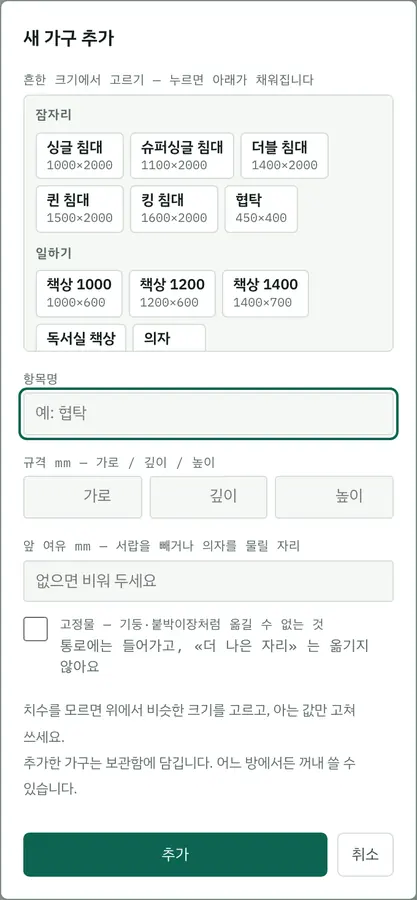
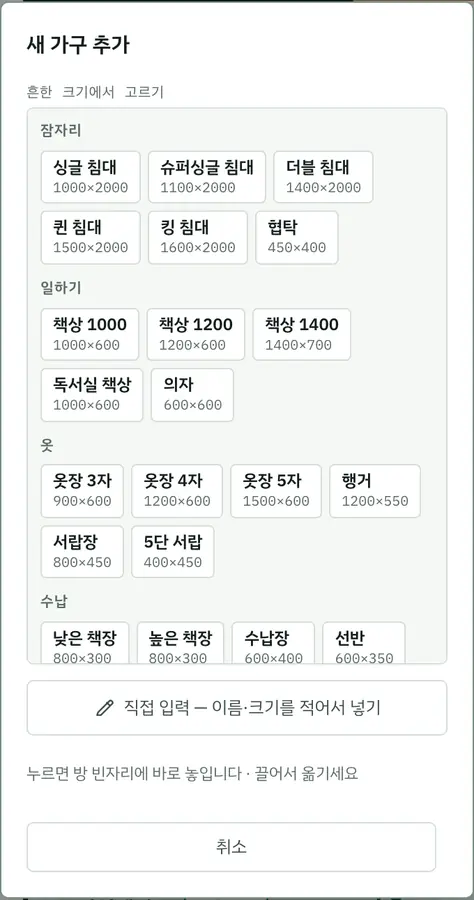
p65: 가구 «흔한 크기» 한 번 누르면 바로 방 빈자리에 · 이름·크기 칸은 «직접 입력» 을 눌러야 펼침 · 폰 고른 가구 줄 맨 앞에 [회전]
- addFurniture() 로 «추가» 와 칩이 같이 쓴다(놓는 자리·방보다 큰 가구 처리·토스트 그대로)
- 안내 «누르면 방 빈자리에 바로 놓입니다 · 끌어서 옮기세요»(집 화면이면 보관함 안내)
- 칩만 보일 때 목록 높이 400px/48vh
- 사용법 3장 그림·설명 새로
- 시험: 칩 뒤 #afAdd 누르기 삭제(점수·통로 기대값 그대로) · 단추 4→5 · t23 은 «직접 입력» 펼친 창

diff --git a/index.html b/index.html
@@ -619,6 +619,8 @@ body.hret .bar,body.hret .side,body.hret .tabbar{opacity:0}
 .selacts{display:flex;gap:6px;margin-top:9px}
 .selacts+.selacts{margin-top:6px}
 .afmore{display:grid;grid-template-columns:1fr 1fr 1fr;gap:6px}
+.afcustom{display:flex;flex-direction:column;gap:11px}   /* p65 — «직접 입력» 을 눌러야 펼쳐지는 칸들 */
+.afown{justify-content:center;min-height:40px}
 .afchk{display:flex;gap:10px;align-items:flex-start;font-size:13px;color:var(--ink-2);line-height:1.45;cursor:pointer}
 .afchk input{width:20px;height:20px;margin:1px 0 0;flex:0 0 auto;accent-color:var(--accent)}
 .afchk i{font-style:normal;color:var(--muted);font-size:12px}
@@ -852,6 +854,7 @@ ol.todo li:first-child{color:var(--ink-2);font-weight:500}
 /* 흔한 크기 고르기 — 치수를 모르는 사람이 대부분이다. 이름과 크기를 함께 보여야 고를 수 있다 */
 .pregrid{max-height:min(210px,30vh);overflow:auto;border:1px solid var(--line);border-radius:5px;
   padding:8px 9px;background:var(--sunk)}
+#addModal.chips .pregrid{max-height:min(400px,48vh)}   /* p65 — 칩만 보일 때는 목록이 창의 주인공 */
 .pregrp{margin:9px 0 5px;font-size:10.5px;font-weight:600;letter-spacing:.06em;color:var(--muted)}
 .pregrp:first-child{margin-top:0}
 .prerow{display:flex;flex-wrap:wrap;gap:5px}
@@ -1361,8 +1364,11 @@ ol.todo li:first-child{color:var(--ink-2);font-weight:500}
 <div class="modal" id="addModal">
   <div class="sheetbox" role="dialog" aria-modal="true" aria-labelledby="afTitle">
     <h2 id="afTitle">새 가구 추가</h2>
-    <div><label>흔한 크기에서 고르기 — 누르면 아래가 채워집니다</label>
+    <div><label>흔한 크기에서 고르기</label>
       <div class="pregrid" id="afPre"></div></div>
+    <!-- p65 — 칩을 누르면 바로 방에 놓인다. 이름·크기를 직접 적는 칸은 «직접 입력» 을 눌러야 펼쳐진다 -->
+    <button type="button" class="btn afown" id="afOwn"><svg class="i" viewBox="0 0 24 24"><use href="#ic-edit"/></svg><span>직접 입력 — 이름·크기를 적어서 넣기</span></button>
+    <div class="afcustom" id="afCustom">
     <div><label for="afName">항목명</label>
       <input id="afName" type="text" placeholder="예: 협탁" maxlength="20"></div>
     <div><label>규격 mm — 가로 / 깊이 / 높이</label>
@@ -1374,12 +1380,13 @@ ol.todo li:first-child{color:var(--ink-2);font-weight:500}
     <div><label for="afF">앞 여유 mm — 서랍을 빼거나 의자를 물릴 자리</label>
       <input id="afF" type="number" min="0" max="2000" step="10" placeholder="없으면 비워 두세요"></div>
     <label class="afchk"><input type="checkbox" id="afFix"><span>고정물 — 기둥·붙박이장처럼 옮길 수 없는 것<br><i>통로에는 들어가고, «더 나은 자리» 는 옮기지 않아요</i></span></label>
+    </div>
     <div class="afmore" id="afMore" hidden>
       <button type="button" class="btn" id="afRot"><svg class="i" viewBox="0 0 24 24"><use href="#ic-rotate"/></svg><span>90° 회전</span></button>
       <button type="button" class="btn" id="afStore"><svg class="i" viewBox="0 0 24 24"><use href="#ic-box"/></svg><span>보관함에</span></button>
       <button type="button" class="btn quiet danger" id="afDel"><svg class="i" viewBox="0 0 24 24"><use href="#ic-trash"/></svg><span>삭제</span></button>
     </div>
-    <p class="hint" id="afHint">치수를 모르면 위에서 비슷한 크기를 고르고, 아는 값만 고쳐 쓰세요.<br>추가한 가구는 보관함에 담깁니다. 어느 방에서든 꺼내 쓸 수 있습니다.</p>
+    <p class="hint" id="afHint">누르면 방 빈자리에 바로 놓입니다 · 끌어서 옮기세요</p>
     <div class="acts">
       <button class="btn go" id="afAdd">추가</button>
       <button class="btn" id="afCancel">취소</button>
@@ -1405,6 +1412,8 @@ ol.todo li:first-child{color:var(--ink-2);font-weight:500}
     <span class="sb-nm" id="sbNm"></span>
     <span class="sb-sz" id="sbSz"></span>
   </button>
+  <!-- p65 — 회전도 줄에 되살림(두 번 누르기를 모르는 사람이 많다) -->
+  <button type="button" class="sb-act" data-sb="rot" aria-label="90° 회전"><svg class="i" viewBox="0 0 24 24"><use href="#ic-rotate"/></svg><span>회전</span></button>
   <button type="button" class="sb-act" data-sb="edit" aria-label="이름·치수 수정"><svg class="i" viewBox="0 0 24 24"><use href="#ic-edit"/></svg><span>수정</span></button>
   <button type="button" class="sb-act" data-sb="dup" aria-label="복제"><svg class="i" viewBox="0 0 24 24"><use href="#ic-copy"/></svg><span>복제</span></button>
   <!-- p46 — 사용자 요청: 고른 가구 줄에서 바로 보관·삭제(p37 에 수정 창 안으로 옮겼던 것을 되살림) -->
@@ -1806,7 +1815,7 @@ const ROOM_PRESETS = [
 ];
 
 /* 화면에 찍히는 판 번호. 실기에서 «고쳤는데 그대로다» 를 가르는 유일한 단서다. */
-const BUILD = "2026-10-04 · p64";
+const BUILD = "2026-10-04 · p65";
 
 const KEYOPT = "room-planner/opt";
 let opt = { score:true, walk:true, unit:"mm", guide:0 };
@@ -6055,6 +6064,9 @@ function buildPresets(){
       b.type = "button"; b.className = "prechip";
       b.innerHTML = `<b>${escapeHtml(p.n)}</b><i>${p.w}×${p.d}</i>`;
       b.addEventListener("click", () => {
+        /* p65 — 새로 넣을 때는 칩 하나로 끝. 칸을 채우는 건 수정 창에서만 */
+        if (!addModal.dataset.edit) return addFurniture({ name:p.n, w:p.w, d:p.d, h:p.h, front:p.f || 0,
+                                                           cat:CAT_COLOR[p.c] ? p.c : "custom", fixed:!!p.fixed });
         $("afName").value = p.n; $("afW").value = p.w;
         $("afD").value = p.d;   $("afH").value = p.h;
         $("afF").value = p.f || "";
@@ -6068,7 +6080,11 @@ function buildPresets(){
   }
 }
 /* p36 — 같은 창을 «가구 수정» 으로도 쓴다. addModal.dataset.edit = 고치는 가구의 uid */
-const AF_HINT = $("afHint").innerHTML;
+/* p65 — 방을 열어 둔 채면 칩 = 방 빈자리, 집 화면이면 보관함 */
+function afHint(){ return (mode === "room" && R()) ? "누르면 방 빈자리에 바로 놓입니다 · 끌어서 옮기세요"
+                                                 : "누르면 보관함에 담깁니다 · 방을 열고 꺼내 쓰세요"; }
+function setOwn(on){ addModal.classList.toggle("chips", !on); $("afCustom").hidden = !on; $("afOwn").hidden = on; $("afAdd").hidden = !on; }
+$("afOwn").addEventListener("click", () => { setOwn(true); setTimeout(() => $("afName").focus(), 30); });
 function setAddMode(uid){
   const edit = !!uid;
   if (edit) addModal.dataset.edit = uid; else delete addModal.dataset.edit;
@@ -6077,7 +6093,8 @@ function setAddMode(uid){
   $("afMore").hidden = !edit;
   $("afPre").parentElement.hidden = edit;       /* 고칠 때는 이름·치수가 먼저 보여야 한다 */
   if (!edit){ $("afFix").checked = false; afPick = null; }
-  $("afHint").innerHTML = edit ? "이 가구만 바뀝니다. 같은 규격을 쓰는 다른 가구는 그대로 둡니다.<br>자리는 왼쪽 위 모서리를 기준으로 유지됩니다." : AF_HINT;
+  $("afHint").innerHTML = edit ? "이 가구만 바뀝니다. 같은 규격을 쓰는 다른 가구는 그대로 둡니다.<br>자리는 왼쪽 위 모서리를 기준으로 유지됩니다." : afHint();
+  setOwn(edit);
   for (const q of $("afPre").querySelectorAll(".prechip")) q.classList.remove("on");
 }
 function openEditItem(uid){
@@ -6143,9 +6160,10 @@ $("addBtn").addEventListener("click", () => {
   if (!addModal.dataset.edit){ $("afFix").checked = false; afPick = null; }
   if (addModal.dataset.edit){ setAddMode(null); for (const f of ["afName","afW","afD","afH","afF"]) $(f).value = ""; }
   for (const q of $("afPre").querySelectorAll(".prechip")) q.classList.remove("on");
+  setOwn(false); $("afHint").innerHTML = afHint();      /* p65 — 열 때마다 칩만 보이게 */
   addModal.classList.add("open");
-  /* p34 — 폰에서는 창이 열리자마자 키보드가 올라와 «흔한 크기» 를 가렸다. 폰은 자동 커서를 두지 않는다 */
-  if (!isPhone()) setTimeout(() => $("afName").focus(), 30);
+  /* p34 — 폰에서는 창이 열리자마자 키보드가 올라와 «흔한 크기» 를 가렸다. 폰은 자동 커서를 두지 않는다.
+     p65 — 이름 칸이 접혀 있으니 자동 커서는 이제 어디에도 두지 않는다 */
 });
 $("afCancel").addEventListener("click", () => { addModal.classList.remove("open"); if (addModal.dataset.edit){ setAddMode(null); for (const f of ["afName","afW","afD","afH","afF"]) $(f).value = ""; } });
 addModal.addEventListener("click", e => { if (e.target === addModal) addModal.classList.remove("open"); });
@@ -6156,12 +6174,16 @@ $("afAdd").addEventListener("click", () => {
   if (![w,d,h].every(v => Number.isFinite(v) && v >= 50 && v <= 4000))
     return toast("가로·깊이·높이를 50~4000 사이로 적어 주세요");
   if (addModal.dataset.edit) return saveEditItem(addModal.dataset.edit, name, w, d, h);
+  addFurniture({ name, w, d, h, front:$("afF").value || 0,
+                 cat: afPick && afPick.n === name && CAT_COLOR[afPick.c] ? afPick.c : "custom",
+                 fixed:$("afFix").checked });
+});
+/* p65 — «추가» 와 «흔한 크기» 칩이 같이 쓴다 */
+function addFurniture({ name, w, d, h, front, cat, fixed }){
   let n = 1; while (state.catalog.some(c => c.id === "U"+n)) n++;
   const cid = "U"+n, before = snapshot();
   state.catalog.push({ id:cid, name, w:Math.round(w), d:Math.round(d), h:Math.round(h),
-                       front:clampInt($("afF").value || 0, 0, 2000),
-                       cat: afPick && afPick.n === name && CAT_COLOR[afPick.c] ? afPick.c : "custom",
-                       custom:true, fixed:$("afFix").checked });
+                       front:clampInt(front || 0, 0, 2000), cat, custom:true, fixed:!!fixed });
   /* 방을 열어 둔 채 추가했으면 그 방에 바로 놓는다.
      보관함에 넣고 «다시 꺼내세요» 라고 하면 60초 규칙이 그 자리에서 깨진다. */
   let into = (mode === "room" && R()) ? curRoom : null;
@@ -6187,7 +6209,7 @@ $("afAdd").addEventListener("click", () => {
   toast(into ? `${name}${eul(name)} 방에 놓았습니다${fitNote || " — 끌어서 자리를 잡으세요"}`
        : fitNote ? `${name} — ${fitNote} 보관함에 넣었습니다`
              : `${name} 추가 — 상단 보관함에 있습니다`);
-});
+}
 
 /* ============ 확인 창 ============ */
 let confirmCb = null;
@@ -6776,7 +6798,8 @@ $("selbar").addEventListener("click", e => {
   if (!b || !sel) return;
   const a = b.getAttribute("data-sb");
   if (!a){ openSheet("stat"); return; }
-  if (a === "edit")      openEditItem(sel);
+  if (a === "rot")       rotate(sel);                                   /* p65 */
+  else if (a === "edit") openEditItem(sel);
   else if (a === "dup")  duplicateItem(sel);
   else if (a === "spot") phoneSpot(sel);
   else if (a === "store"){ const it = ITEM(sel); if (it && it.room === null) takeItem(sel); else storeItem(sel); }   /* p46 */
@@ -6803,7 +6826,7 @@ function syncPhone(){
     $("sbSz").textContent = it.room === null
       ? `보관함 · ${fmt(sp.w)} × ${fmt(sp.d)}`
       : `${fmt(f.w)} × ${fmt(f.d)} · ${it.rot}°`;
-    $("selbar").querySelector('[data-sb="dup"]').hidden = it.room === null;      /* p47 — «자리 찾기» 는 뺐다(사용자 요청) */
+    $("selbar").querySelector('[data-sb="dup"]').hidden = $("selbar").querySelector('[data-sb="rot"]').hidden = it.room === null;      /* p47 — «자리 찾기» 는 뺐다(사용자 요청) */
     $("sbStoreL").textContent = it.room === null ? "꺼내기" : "보관";          /* p46 — 보관함 가구는 «꺼내기» */
   }
   /* p51 — 고른 문·창문·콘센트 줄(#opbar)과 «벽을 누르세요» 띠 */
@@ -7287,8 +7310,8 @@ const GUIDE = [
    d:"«추가» 에서 문이나 창문을 고르면 반투명한 미리보기가 나옵니다. 끌거나 벽을 눌러 자리를 맞추고, 양 끝 점을 끌어 폭을 바꾼 뒤 «놓기». 문은 «안으로/밖으로»·«반대쪽» 으로 여는 쪽을 고르고, 창문은 «보통 창» 과 바닥까지 내려오는 «거실 창» 중에서 고르세요. 콘센트는 벽을 누르면 바로 놓이고, 앞을 가구가 막으면 황토색으로 알려 줍니다(점수와는 상관없음). 세밀한 치수는 «수정».",
    img:"guide/02.webp", w:1040, h:821 },
  { t:"가구 놓기",
-   d:"치수를 모르면 «흔한 크기» 에서 고르고 아는 값만 고쳐 쓰세요. 앞 여유는 서랍을 빼거나 의자를 물릴 자리입니다. 기둥·붙박이장·라디에이터처럼 옮길 수 없는 것은 맨 아래 «고정물» 에서 고르세요 — 통로에는 들어가고 추천은 옮기지 않습니다.",
-   img:"guide/03.webp", w:417, h:900 },
+   d:"«흔한 크기» 를 누르면 방 빈자리에 바로 놓입니다 — 끌어서 옮기세요. 크기를 아는 가구는 «직접 입력» 에서 이름·크기·앞 여유(서랍을 빼거나 의자를 물릴 자리)를 적습니다. 기둥·붙박이장·라디에이터처럼 옮길 수 없는 것은 맨 아래 «고정물» 에서 고르세요 — 통로에는 들어가고 추천은 옮기지 않습니다.",
+   img:"guide/03.webp", w:474, h:900 },
  { t:"끌어서 옮기기",
    d:"끌면 벽과 이웃 가구에 저절로 붙습니다. 고른 가구는 가장 가까운 벽이나 가구까지의 거리가 도면에, 네 벽까지의 거리는 오른쪽에 나오고, 겹치면 빨갛게 표시됩니다. 같은 칸의 «치수 수정»·«복제» 로 크기를 고치거나 하나 더 놓을 수 있습니다.",
    img:"guide/04.webp", w:1040, h:821 },

diff --git a/tests/t38.js b/tests/t38.js
@@ -18,8 +18,7 @@ const APP = 'file://' + (process.env.APP || (process.env.WORK || '/home/claude/w
       const cid = s.catalog.find(k => k.name === nm).id; Object.assign(s.items.find(i => i.cat === cid), v);
       localStorage.setItem('room-planner/3', JSON.stringify(s)); }, [nm, v]); await reload(); };
   const addPreset = async nm => { await p.click('#addBtn'); await p.waitForTimeout(300);
-    await p.click(`#afPre button:has-text("${nm}")`); await p.waitForTimeout(100);
-    const fx = await p.isChecked('#afFix'); await p.click('#afAdd'); await p.waitForTimeout(600); return fx; };
+    await p.click(`#afPre button:has-text("${nm}")`); await p.waitForTimeout(600); return true; };   // p65 — 칩 하나로 방에
   await p.goto(APP); await p.waitForTimeout(700); await p.click('#isPeek'); await p.waitForTimeout(1500);
   if (await p.$('#guide.open')) { await p.keyboard.press('Escape'); await p.waitForTimeout(300); }
   const w0 = await walk(), sc0 = await score();
@@ -27,11 +26,11 @@ const APP = 'file://' + (process.env.APP || (process.env.WORK || '/home/claude/w
   chk(await p.$$eval('#afPre .pregrp', e => e.some(x => x.textContent.includes('고정물'))), '«흔한 크기» 에 고정물 묶음');
   const fx = await addPreset('기둥');
   let s = await st(); const col = s.catalog.find(k => k.name === '기둥');
-  chk(fx && col && col.fixed === true, '기둥 누르면 «고정물» 체크 → 카탈로그 fixed');
+  chk(fx && col && col.fixed === true, '기둥 누르면 바로 놓이고 카탈로그 fixed');
   chk((await p.$$('#plan .fg.fixed rect.hatch')).length === 1, '도면에 빗금 고정물 1개');
   // 싱글 침대(일반 가구)는 고정물 아님
-  await p.click('#addBtn'); await p.waitForTimeout(200); await p.click('#afPre button:has-text("협탁")');
-  chk(!(await p.isChecked('#afFix')), '일반 가구 누르면 체크 해제'); await p.click('#afCancel');
+  await p.click('#addBtn'); await p.waitForTimeout(200); await p.click('#afOwn');
+  chk(!(await p.isChecked('#afFix')), '«직접 입력» 칸은 고정물 체크 해제'); await p.click('#afCancel');
   // 기둥을 통로 한가운데로
   await put('기둥', { x:1500, y:2350, rot:0 });
   const w1 = await walk(); chk(w1 < 771, `통로 한가운데 기둥 → 최소 통로 771 → ${w1}`);
@@ -72,9 +71,9 @@ const APP = 'file://' + (process.env.APP || (process.env.WORK || '/home/claude/w
   await p.goto(APP); await p.waitForTimeout(700); await p.tap('#isPeek'); await p.waitForTimeout(1500);
   if (await p.$('#guide.open')) { await p.keyboard.press('Escape'); await p.waitForTimeout(300); }
   await p.tap('#tabbar [data-tab="add"]'); await p.waitForTimeout(300); await p.tap('#apModal [data-ap="furn"]'); await p.waitForTimeout(400);
-  await p.locator('#afPre button:has-text("기둥")').scrollIntoViewIfNeeded(); await p.tap('#afPre button:has-text("기둥")'); await p.tap('#afAdd'); await p.waitForTimeout(700);
+  await p.locator('#afPre button:has-text("기둥")').scrollIntoViewIfNeeded(); await p.tap('#afPre button:has-text("기둥")'); await p.waitForTimeout(700);
   const vis = await p.$$eval('#selbar .sb-act', ns => ns.filter(n => !n.hidden).map(n => n.textContent.trim()));
-  chk(vis.join() === '수정,복제,보관,삭제', '폰 고정물 고르면 줄: ' + vis.join(' · '));   // p47 — 자리 찾기는 이제 모두에게 없음   // p46 — 보관·삭제 되살림(자리 찾기는 고정물이라 숨김)
+  chk(vis.join() === '회전,수정,복제,보관,삭제', '폰 고정물 고르면 줄: ' + vis.join(' · '));   // p47 — 자리 찾기는 이제 모두에게 없음   // p46 — 보관·삭제 되살림(자리 찾기는 고정물이라 숨김)
   await p.tap('#sbInfo'); await p.waitForTimeout(400);
   chk(!(await p.isVisible('#selEdit')) && !(await p.isVisible('#selRot')), '폰 상태 시트: 고른 가구 칸 버튼 없음');
   await p.screenshot({ path:(process.env.WORK || '/home/claude/work') + '/p38_phone.png' });

diff --git a/tests/t46.js b/tests/t46.js
@@ -23,7 +23,7 @@ const FILE = process.env.APP || WORK + '/app.html', DIR = path.dirname(FILE);
       const info = document.getElementById('sbInfo').getBoundingClientRect();
       return { labels: acts.map(n => n.textContent.trim()), small: acts.filter(n => { const r = n.getBoundingClientRect(); return r.width < 44 || r.height < 44; }).length,
         over: s.scrollWidth > s.clientWidth + 1, right: Math.max(...acts.map(n => n.getBoundingClientRect().right)) <= innerWidth, info: Math.round(info.width), nm: document.getElementById('sbNm').textContent }; });
-    chk(bar.labels.join('·') === '수정·복제·보관·삭제' && bar.small === 0 && !bar.over && bar.right,
+    chk(bar.labels.join('·') === '회전·수정·복제·보관·삭제' && bar.small === 0 && !bar.over && bar.right,
         `${W}px: 고른 가구 줄 [${bar.labels.join(' · ')}] 44px 이상 · 화면 안 · 이름 칸 ${bar.info}px («${bar.nm}»)`);
     if (W === 360) { chk(bar.info >= 60, `360px 에서도 이름 칸 60px 이상 (${bar.info}px)`); await c.close(); continue; }
     await p.screenshot({ path: WORK + '/p46_selbar.png' });
@@ -65,7 +65,7 @@ const FILE = process.env.APP || WORK + '/app.html', DIR = path.dirname(FILE);
   const got = await run('/gc.html?gctest', async p => {
     await p.click('#isPeek'); await p.waitForTimeout(1300);
     if (await p.$('#guide.open')) { await p.waitForTimeout(100); chk(await p.$eval('.gnote', n => n.textContent.includes('쿠키를 쓰지 않고')), '사용법 창에 측정 안내 한 줄'); await p.keyboard.press('Escape'); }
-    await p.click('#addBtn'); await p.waitForTimeout(300);
+    await p.click('#addBtn'); await p.waitForTimeout(300); await p.click('#afOwn');   // p65
     await p.fill('#afName', '비밀 책상'); await p.fill('#afW', '1000'); await p.fill('#afD', '600'); await p.fill('#afH', '720');
     await p.click('#afAdd'); await p.waitForTimeout(300);
     await p.click('#shareBtn'); await p.waitForTimeout(500); await p.click('#shClose').catch(() => {});

diff --git a/tests/t37.js b/tests/t37.js
@@ -71,7 +71,7 @@ const APP = 'file://' + (process.env.APP || (process.env.WORK || '/home/claude/w
   await p.tap('#tabbar [data-tab="list"]'); await p.waitForTimeout(400);
   await p.tap('#listIn .fitem .nm:text-is("독서실책상")'); await p.waitForTimeout(500);
   const acts = await p.$$eval('#selbar .sb-act', ns => ns.filter(n => !n.hidden).map(n => n.textContent.trim() + ':' + Math.round(n.getBoundingClientRect().width) + '×' + Math.round(n.getBoundingClientRect().height)));
-  chk(acts.length === 4 && acts[0].startsWith('수정') && acts[1].startsWith('복제') && acts[2].startsWith('보관') && acts[3].startsWith('삭제'), '고른 가구 줄: ' + acts.join(' '));   // p47 — «자리 찾기» 뺌(사용자 요청)   // p46 — 사용자 요청으로 보관·삭제 되살림
+  chk(acts.length === 5 && acts[0].startsWith('회전') && acts[1].startsWith('수정') && acts[2].startsWith('복제') && acts[3].startsWith('보관') && acts[4].startsWith('삭제'), '고른 가구 줄: ' + acts.join(' '));   // p47 — «자리 찾기» 뺌(사용자 요청)   // p46 — 사용자 요청으로 보관·삭제 되살림
   await p.screenshot({ path:(process.env.WORK || '/home/claude/work') + '/p37_selbar.png' });
   await p.tap('#sbInfo'); await p.waitForTimeout(600); await p.tap('#spotGo').catch(() => {}); await p.waitForTimeout(2000);   // p47 — 이름 → 상태 시트 → «더 나은 자리»
   const sp = await p.evaluate(() => document.getElementById('spotBox').innerText.replace(/\s+/g, ' '));

diff --git a/tests/t47.js b/tests/t47.js
@@ -53,7 +53,7 @@ const FILE = process.env.APP || WORK + '/app.html', APP = 'file://' + FILE;
   await p.tap(`#plan .fg[data-uid="${uid}"] rect.body`, { position: { x: bb.width / 2, y: bb.height / 2 }, force: true }); await p.waitForTimeout(400);
   const bar = await p.evaluate(() => ({ acts: [...document.querySelectorAll('#selbar .sb-act')].filter(n => !n.hidden && getComputedStyle(n).display !== 'none').map(n => n.textContent.trim()),
     sz: getComputedStyle(document.getElementById('sbSz')).display, nm: document.getElementById('sbNm').textContent }));
-  chk(bar.acts.join('·') === '수정·복제·보관·삭제' && bar.sz === 'none', `고른 가구 줄: «${bar.nm}» + [${bar.acts.join(' · ')}] — 치수 줄·자리 찾기 없음`);
+  chk(bar.acts.join('·') === '회전·수정·복제·보관·삭제' && bar.sz === 'none', `고른 가구 줄: «${bar.nm}» + [${bar.acts.join(' · ')}] — 치수 줄·자리 찾기 없음`);
   await p.screenshot({ path: WORK + '/p47_phone.png' });
   const fb = await p.evaluate(() => { const f = document.getElementById('tapeFab'), r = f.getBoundingClientRect(), bar = document.getElementById('plan').getBoundingClientRect();
     return { vis: !f.hidden && getComputedStyle(f).display !== 'none', x: Math.round(r.left), y: Math.round(r.top), w: Math.round(r.width), barB: Math.round(Math.max(0, bar.top)),

diff --git a/tests/t34.js b/tests/t34.js
@@ -9,7 +9,7 @@ const APP = 'file://' + (process.env.APP || (process.env.WORK || '/home/claude/w
   await p.goto(APP); await p.waitForTimeout(800);
   await p.fill('#isW', '2000'); await p.fill('#isD', '1500'); await p.click('#isGo'); await p.waitForTimeout(1300); await p.locator('#plan .rg').last().click(); await p.waitForTimeout(1300);
   if (await p.$('#guide.open')) { await p.keyboard.press('Escape'); await p.waitForTimeout(300); }
-  const add = async nm => { await p.click('#addBtn'); await p.waitForTimeout(300); await p.click(`#afPre button:has-text("${nm}")`); await p.click('#afAdd'); await p.waitForTimeout(500); return p.textContent('#toast'); };
+  const add = async nm => { await p.click('#addBtn'); await p.waitForTimeout(300); await p.click(`#afPre button:has-text("${nm}")`); await p.waitForTimeout(500); return p.textContent('#toast'); };
   const inside = () => p.evaluate(() => { const r = document.querySelector('#plan rect'); const W = +r.getAttribute('width'), H = +r.getAttribute('height');
     return [...document.querySelectorAll('#plan g.fg rect.body')].every(q => +q.getAttribute('x') >= 0 && +q.getAttribute('y') >= 0 && +q.getAttribute('x') + +q.getAttribute('width') <= W + 1 && +q.getAttribute('y') + +q.getAttribute('height') <= H + 1); });
   console.log('[①] 2000×1500 방');

diff --git a/sw.js b/sw.js
@@ -1,10 +1,10 @@
 /* 이걸 어디다 두지? — 서비스 워커 (p45, P3-3 홈 화면 앱·오프라인)
-   build.py 가 2026-10-04-p64 를 판 번호로 바꿔 sw.js 로 쓴다. 판이 바뀌면 이 파일이 바뀌어 브라우저가 새 워커를 받는다.
+   build.py 가 2026-10-04-p65 를 판 번호로 바꿔 sw.js 로 쓴다. 판이 바뀌면 이 파일이 바뀌어 브라우저가 새 워커를 받는다.
    ① 설치 때 앱·사용법 그림·아이콘을 캐시에 담는다 → 인터넷 없이도 열린다.
    ② 페이지(index.html)는 «인터넷 먼저» — 연결되면 늘 새 판, 끊기면 캐시. 그래서 «고쳤는데 그대로» 가 생기지 않는다.
    ③ 그 밖의 파일(그림·아이콘)은 캐시 먼저.
    ⚠ 방 데이터는 여기와 상관없다(localStorage). 캐시를 지워도 방은 남는다. */
-const CACHE = "rp-2026-10-04-p64";
+const CACHE = "rp-2026-10-04-p65";
 const CORE = ["./", "index.html", "manifest.json", "icon-180.png", "icon-192.png", "icon-512.png", "icon-512-maskable.png", "favicon-32.png", "favicon-16.png",
   "guide/01.webp", "guide/02.webp", "guide/03.webp", "guide/04.webp", "guide/05.webp", "guide/06.webp",
   "guide/07.webp", "guide/08.webp", "guide/09.webp", "guide/10.webp", "guide/11.webp"];

diff --git a/tests/t17.js b/tests/t17.js
@@ -34,11 +34,9 @@ const chromium = require('playwright')[process.env.BROWSER || 'chromium'];   // 
   const grps = await p.$$eval('.pregrp', ns => ns.map(n => n.textContent));
   console.log('\n프리셋 묶음 :', grps.join(' / '), '· 개수', chips.length);
   console.log('보기 :', chips.slice(0, 4).join(' | '));
-  await p.click('.prechip:has-text("퀸 침대")'); await p.waitForTimeout(150);
-  console.log('퀸 침대 채움 :', await p.$eval('#afName', n => n.value),
-    await p.$eval('#afW', n => n.value), await p.$eval('#afD', n => n.value),
-    await p.$eval('#afH', n => n.value), '· 앞여유', await p.$eval('#afF', n => n.value));
-  await p.click('#afAdd'); await p.waitForTimeout(400);
+  console.log('이름 칸 접힘 :', !(await p.isVisible('#afName')), '· 추가 단추 숨김', !(await p.isVisible('#afAdd')), '· 직접 입력', await p.isVisible('#afOwn'));   // p65
+  await p.click('.prechip:has-text("퀸 침대")'); await p.waitForTimeout(400);
+  console.log('퀸 침대 누름 → 창 닫힘 :', !(await p.$('#addModal.open')));
   console.log('추가 후 토스트 :', await T('#toast'));
   console.log('보관함 :', (await p.$$eval('#drawerList .fitem .nm, #drawerList *[class*=nm]', ns => ns.map(n => n.textContent))).join(','));
 

diff --git a/tests/t32.js b/tests/t32.js
@@ -26,7 +26,7 @@ const APP = 'file://' + (process.env.APP || (process.env.WORK || '/home/claude/w
   chk(!/100\s*\|\s*훌륭/.test(box) && box.includes('아직 가구가 없어요'), '상태: ' + box.slice(0, 90));
   await p.screenshot({ path:'p32_empty.png' });
   await p.tap('#tabbar [data-tab="add"]'); await p.waitForTimeout(400); await p.tap('#apModal [data-ap="furn"]'); await p.waitForTimeout(500);
-  const pre = await p.$$('#afPre button'); await pre[1].tap(); await p.tap('#afAdd'); await p.waitForTimeout(800);
+  const pre = await p.$$('#afPre button'); await pre[1].tap(); await p.waitForTimeout(800);
   chk(await p.$$eval('#plan .walkband', e => e.length) >= 1, '가구 하나 놓으면 통로 원이 나온다');
   chk(!(await p.textContent('#miniStat')).includes('가구를 놓으면'), '알약: ' + await p.textContent('#miniStat'));
   chk((await overlaps(p)).length === 0, '글자 겹침 0 (가구 1개)');

diff --git a/tests/t23.js b/tests/t23.js
@@ -76,7 +76,7 @@ const SIZES = [ [390, 844], [390, 640], [360, 560] ];
     const sheet = async name => { await p.click(`#tabbar [data-tab="${name}"]`);
                                   await p.waitForTimeout(400); };
     await check('놓기(가구 추가)',
-      async () => { await sheet('add'); await p.click('#apModal [data-ap="furn"]'); }, () => p.click('#afCancel'));   // p37 부터 «추가» 탭은 먼저 가구·문·창문을 고른다
+      async () => { await sheet('add'); await p.click('#apModal [data-ap="furn"]'); await p.waitForTimeout(300); await p.click('#afOwn'); }, () => p.click('#afCancel'));   // p65 — «추가» 는 «직접 입력» 을 펼쳐야 보인다   // p37 부터 «추가» 탭은 먼저 가구·문·창문을 고른다
     await check('문 · 창문',
       async () => { await sheet('list');
                     await p.click('#openList .opitem [data-act="edit"]'); },

diff --git a/tests/t39.js b/tests/t39.js
@@ -24,7 +24,7 @@ const APP = 'file://' + (process.env.APP || (process.env.WORK || '/home/claude/w
   await p.fill('#rmW', '3000').catch(() => {}); await p.fill('#rmD', '3000').catch(() => {});
   await p.click('#rmSave').catch(() => {}); await p.waitForTimeout(700);
   const rooms = await p.$$('#roomList .roomcard .nm'); await rooms[rooms.length - 1].click(); await p.waitForTimeout(600);
-  await p.click('#addBtn'); await p.waitForTimeout(200); await p.click('#afPre button:has-text("싱글 침대")'); await p.click('#afAdd'); await p.waitForTimeout(700);
+  await p.click('#addBtn'); await p.waitForTimeout(200); await p.click('#afPre button:has-text("싱글 침대")'); await p.waitForTimeout(700);
   chk(!!(await p.$('#estChip')), '추정이 있는 새 방 → «추정 포함» 칩');
   await p.click('#estChip'); await p.waitForTimeout(300);
   const t = await p.textContent('#toast');

diff --git a/tests/t51.js b/tests/t51.js
@@ -154,7 +154,7 @@ const FILE = process.env.APP || WORK + '/app.html', APP = 'file://' + FILE;
 
   /* 가구 우선 보호: 위쪽 벽에 붙은 침대 — 놓는 중엔 그 자리에 콘센트, 아닐 땐 같은 자리가 침대를 고른다 */
   await tap(p, '#tabbar [data-tab="add"]'); await tap(p, '#apModal [data-ap="furn"]');
-  await p.click('#afPre button:has-text("싱글 침대")'); await p.tap('#afAdd'); await p.waitForTimeout(500);
+  await p.click('#afPre button:has-text("싱글 침대")'); await p.waitForTimeout(500);
   const bedAt = await p.evaluate(() => { const s = JSON.parse(localStorage.getItem('room-planner/3')); return s.items[s.items.length - 1]; });
   chk(bedAt.x === 0 && bedAt.y === 0, '침대가 왼쪽 위 모서리');
   await place(p, 'out', g.X(300), g.Y(0) + 12);
